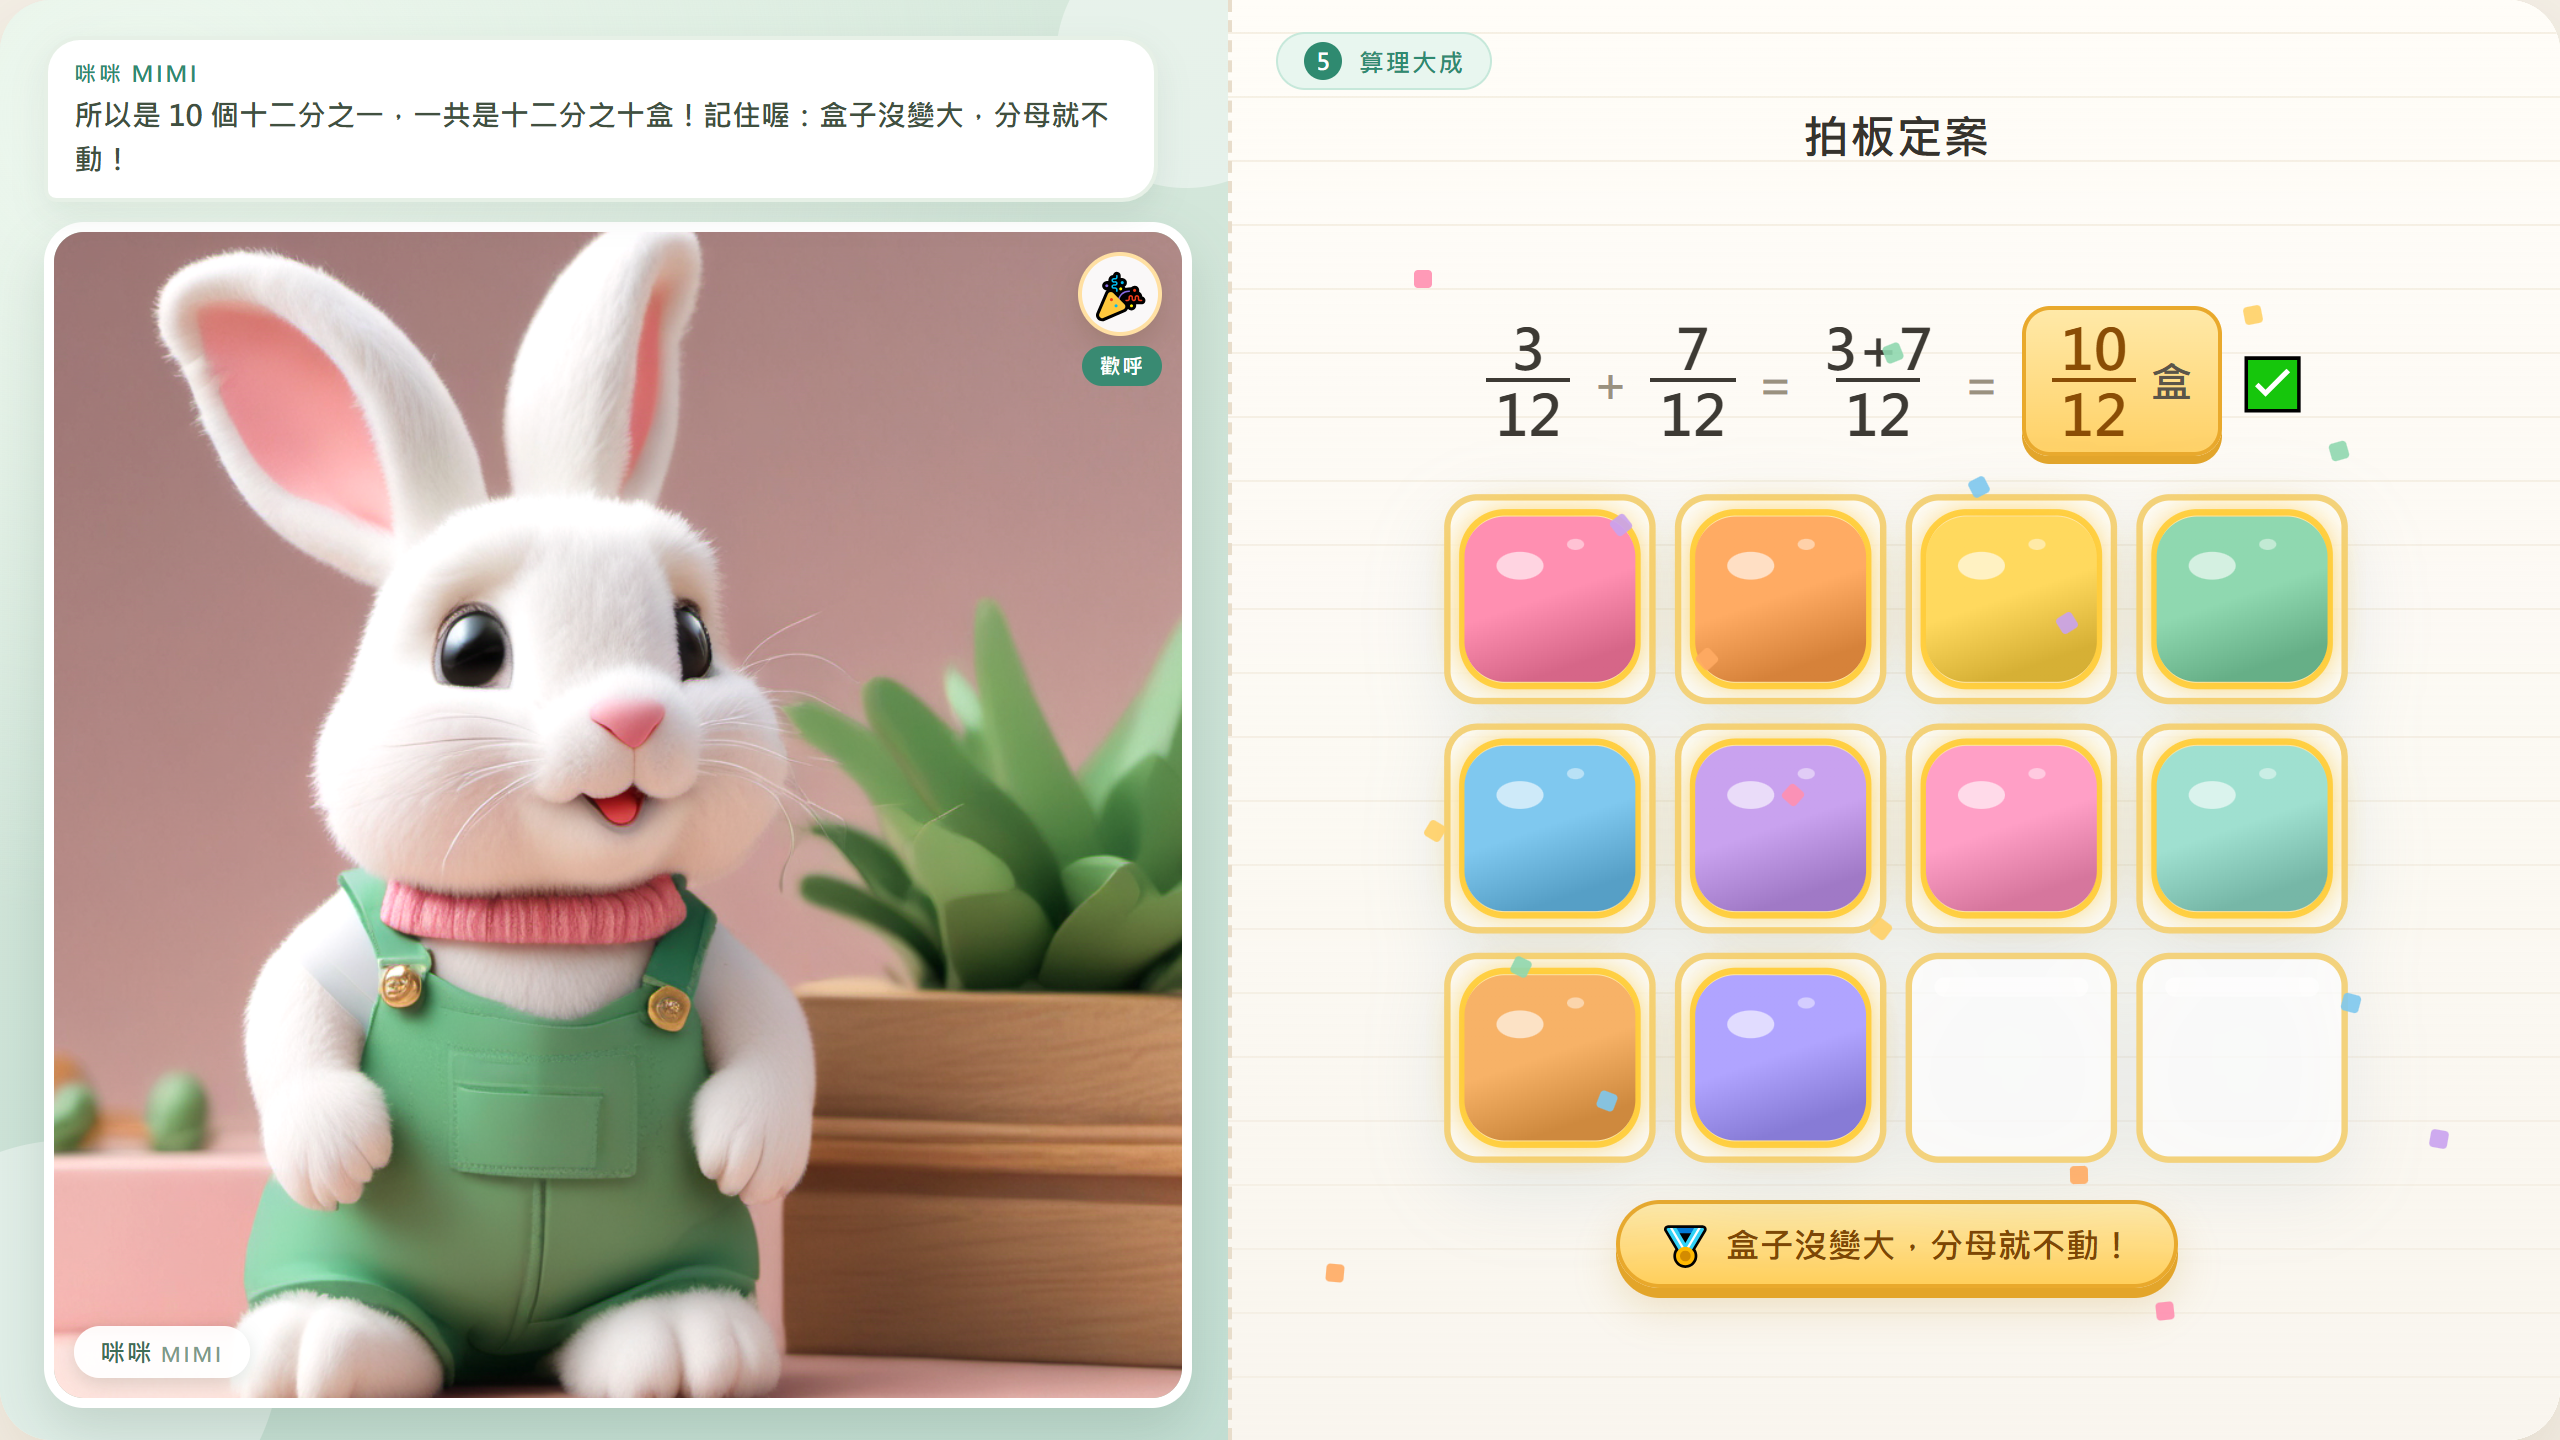
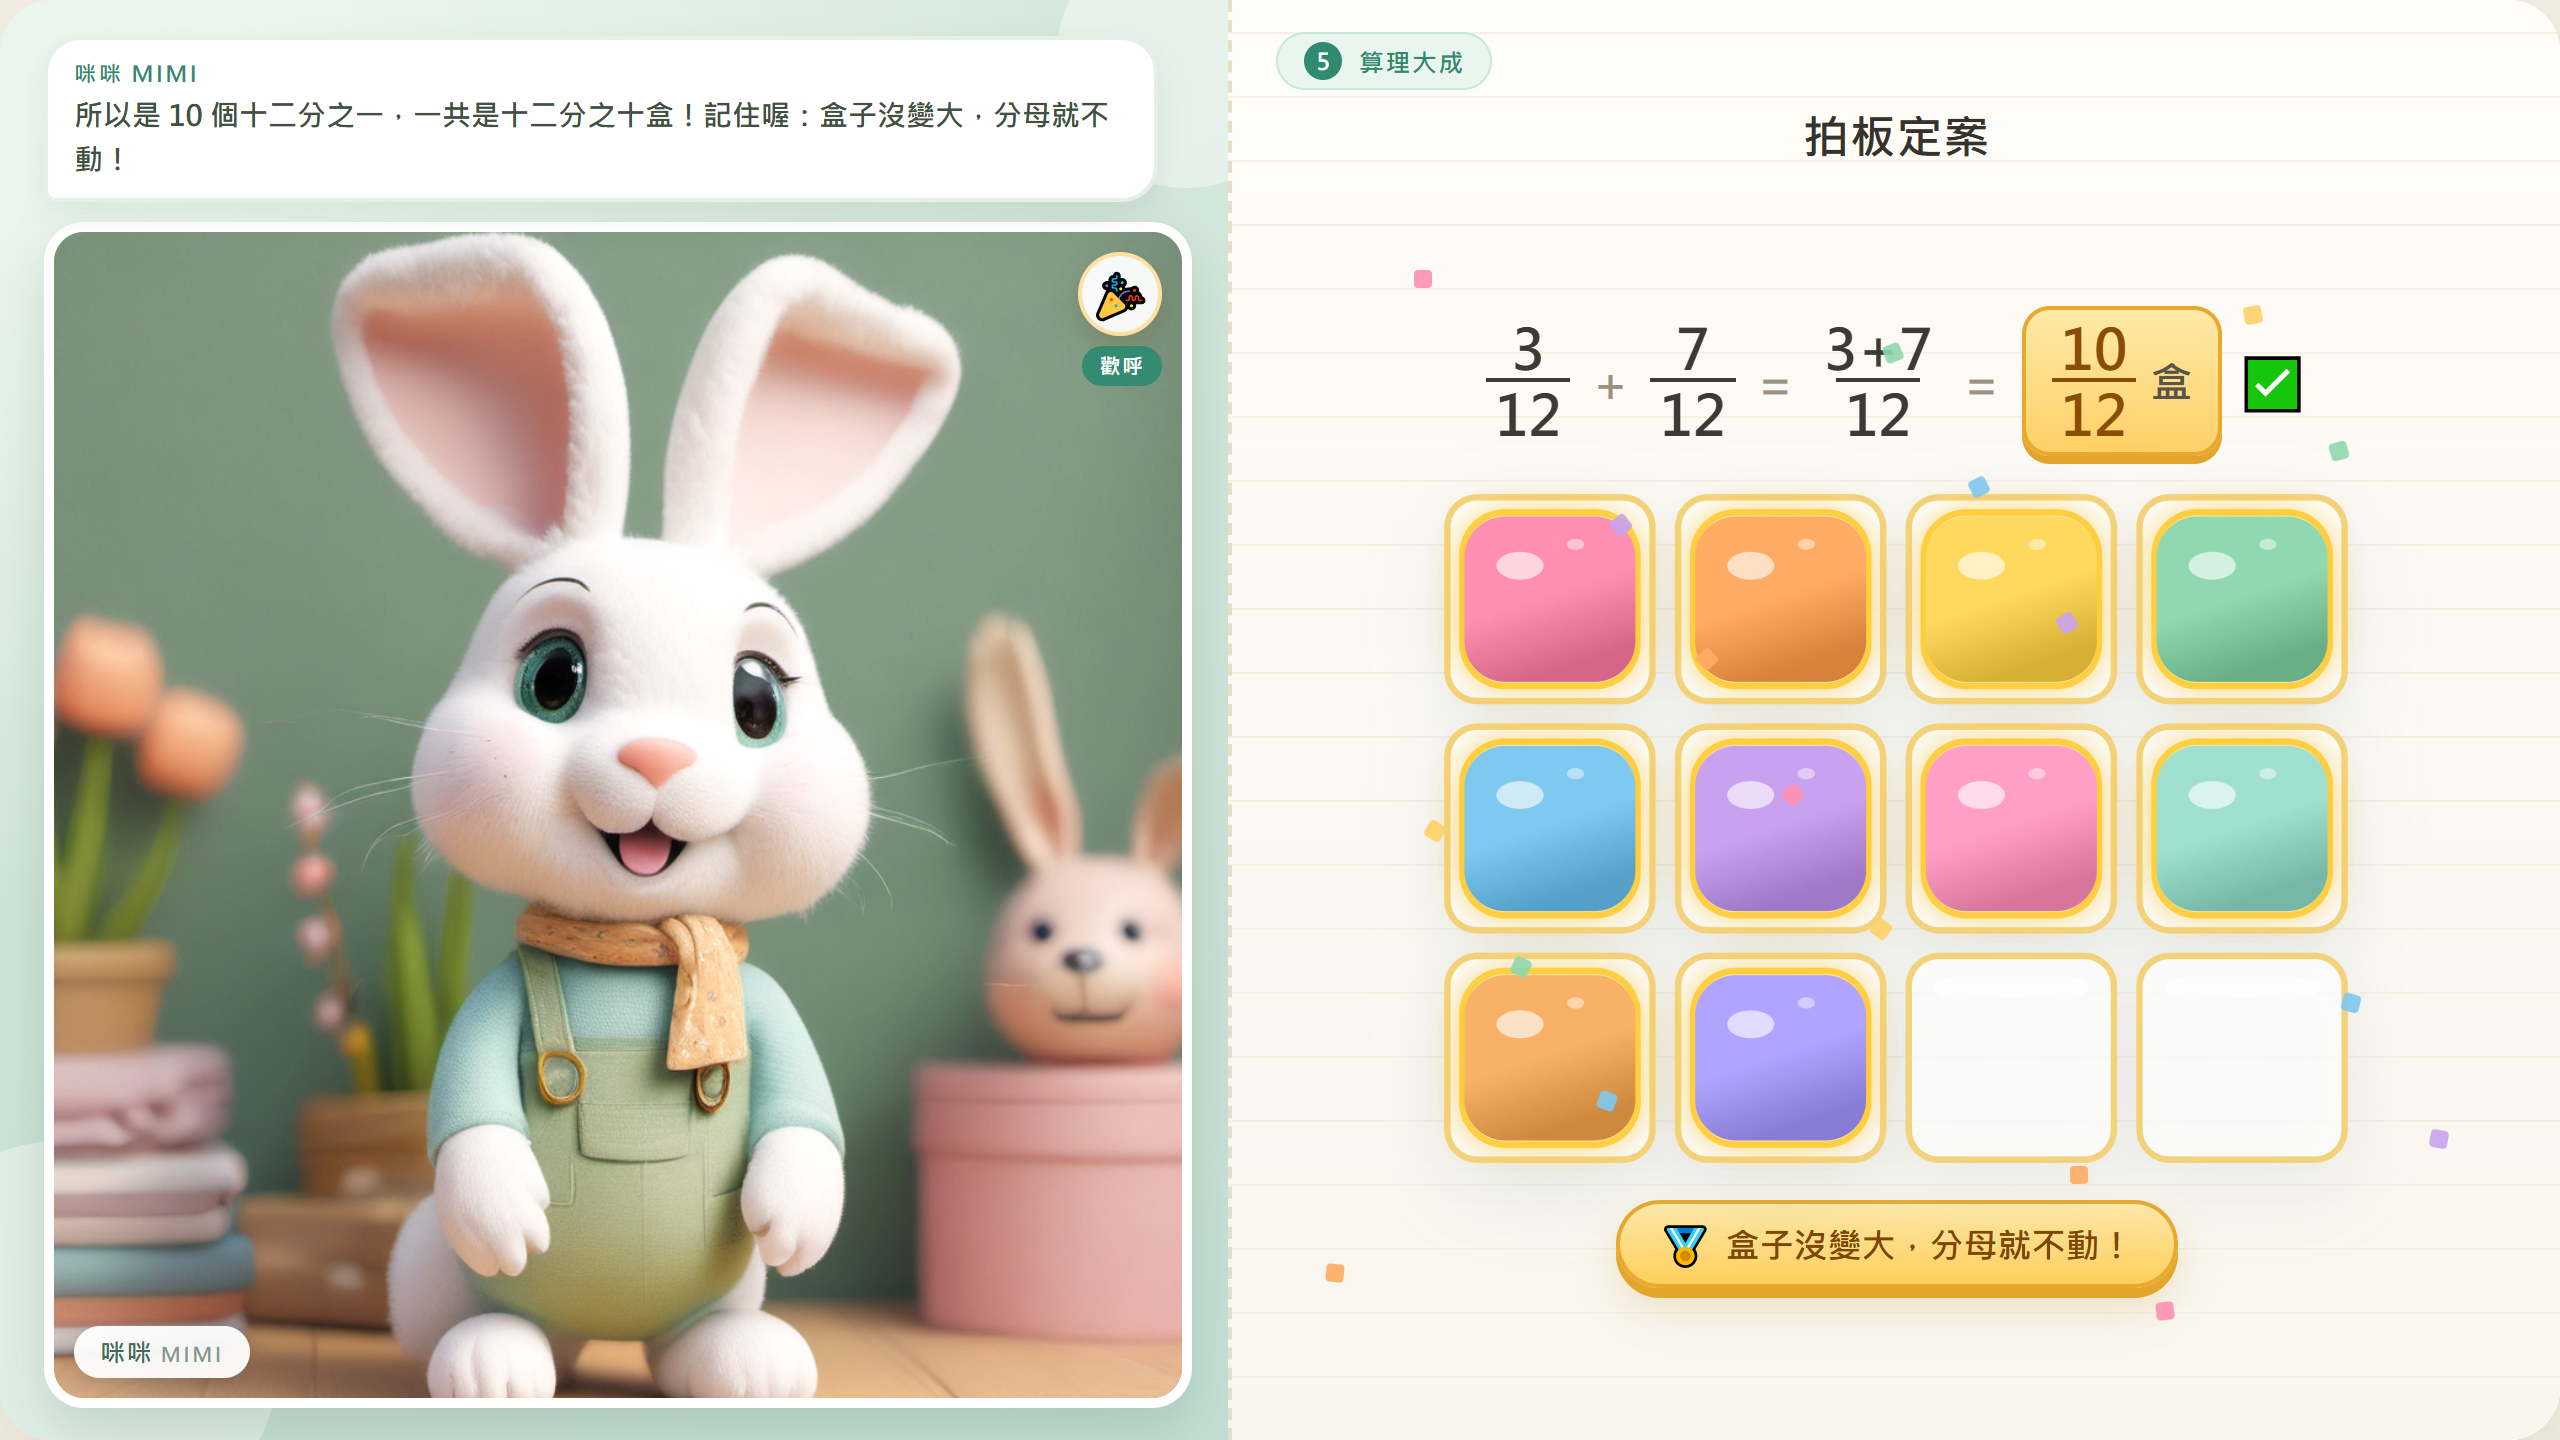
fix(g3-n39): 統一鎖定 Golden Master 咪咪立繪，根除角色漂移與烏龜畸形圖 (148/148 PASS)

diff --git a/app/components/g3_n39_static_preview.html b/app/components/g3_n39_static_preview.html
@@ -466,11 +466,11 @@ body {
   };
 
   var MIMI_IMG = {
-    confused: '../assets/characters/g3_mimi/mimi_speaking_1024.png',
-    point: '../assets/characters/g3_mimi/mimi_ready_point_1024.png',
-    count: '../assets/characters/g3_mimi/mimi_ready_point_1024.png',
-    eureka: '../assets/characters/g3_mimi/mimi_speaking_1024.png',
-    cheer: '../assets/characters/g3_mimi/mimi_speaking_1024.png'
+    confused: '../assets/characters/g3_mimi/mimi_front_1024.png',
+    point: '../assets/characters/g3_mimi/mimi_front_1024.png',
+    count: '../assets/characters/g3_mimi/mimi_front_1024.png',
+    eureka: '../assets/characters/g3_mimi/mimi_front_1024.png',
+    cheer: '../assets/characters/g3_mimi/mimi_front_1024.png'
   };
 
   /* ---------- SVG 小工具 ---------- */
